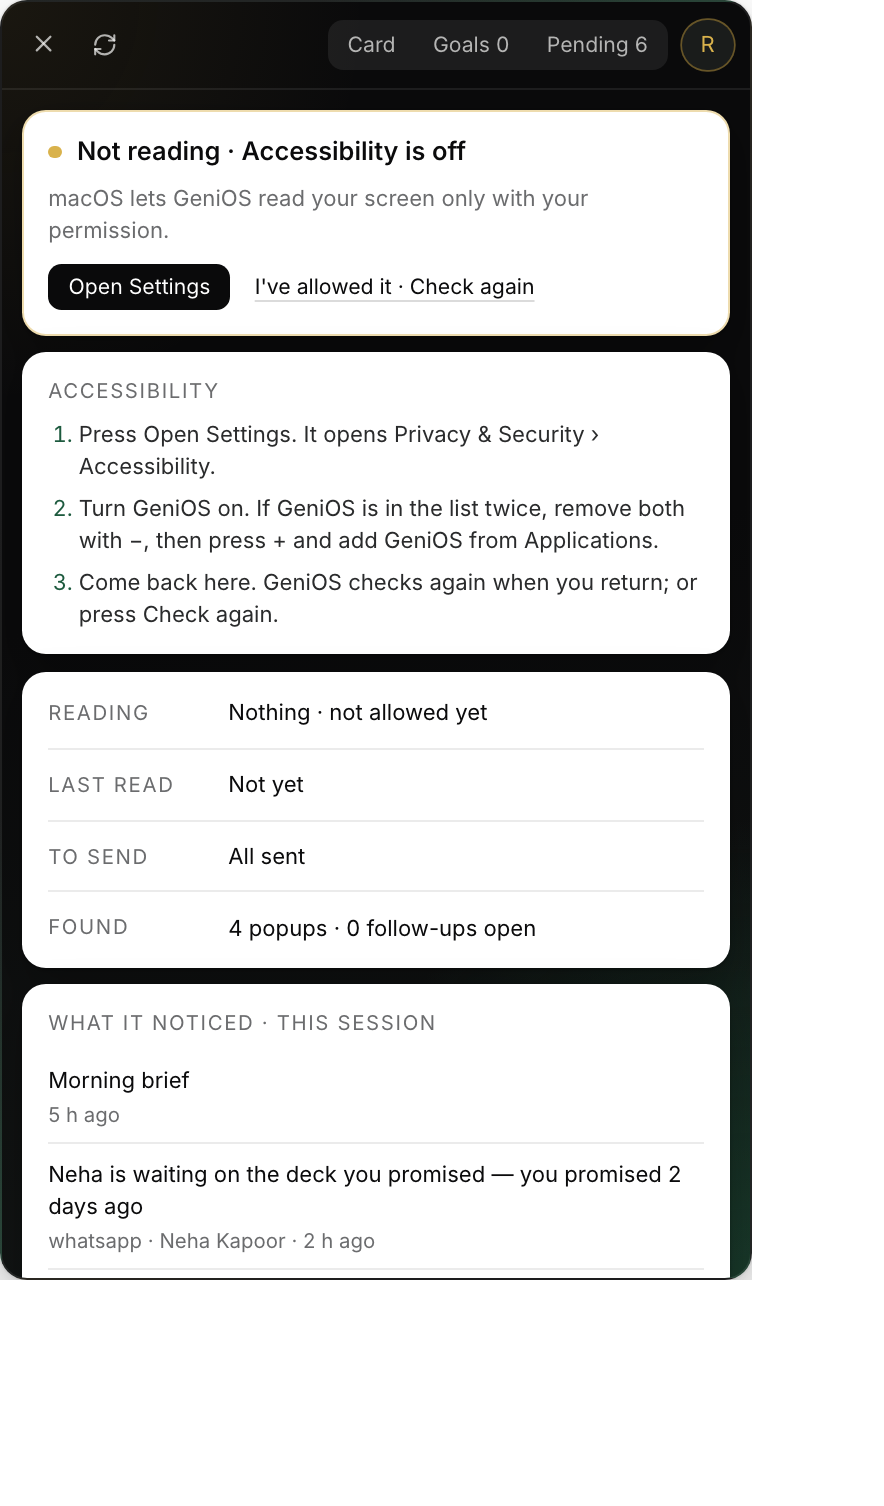
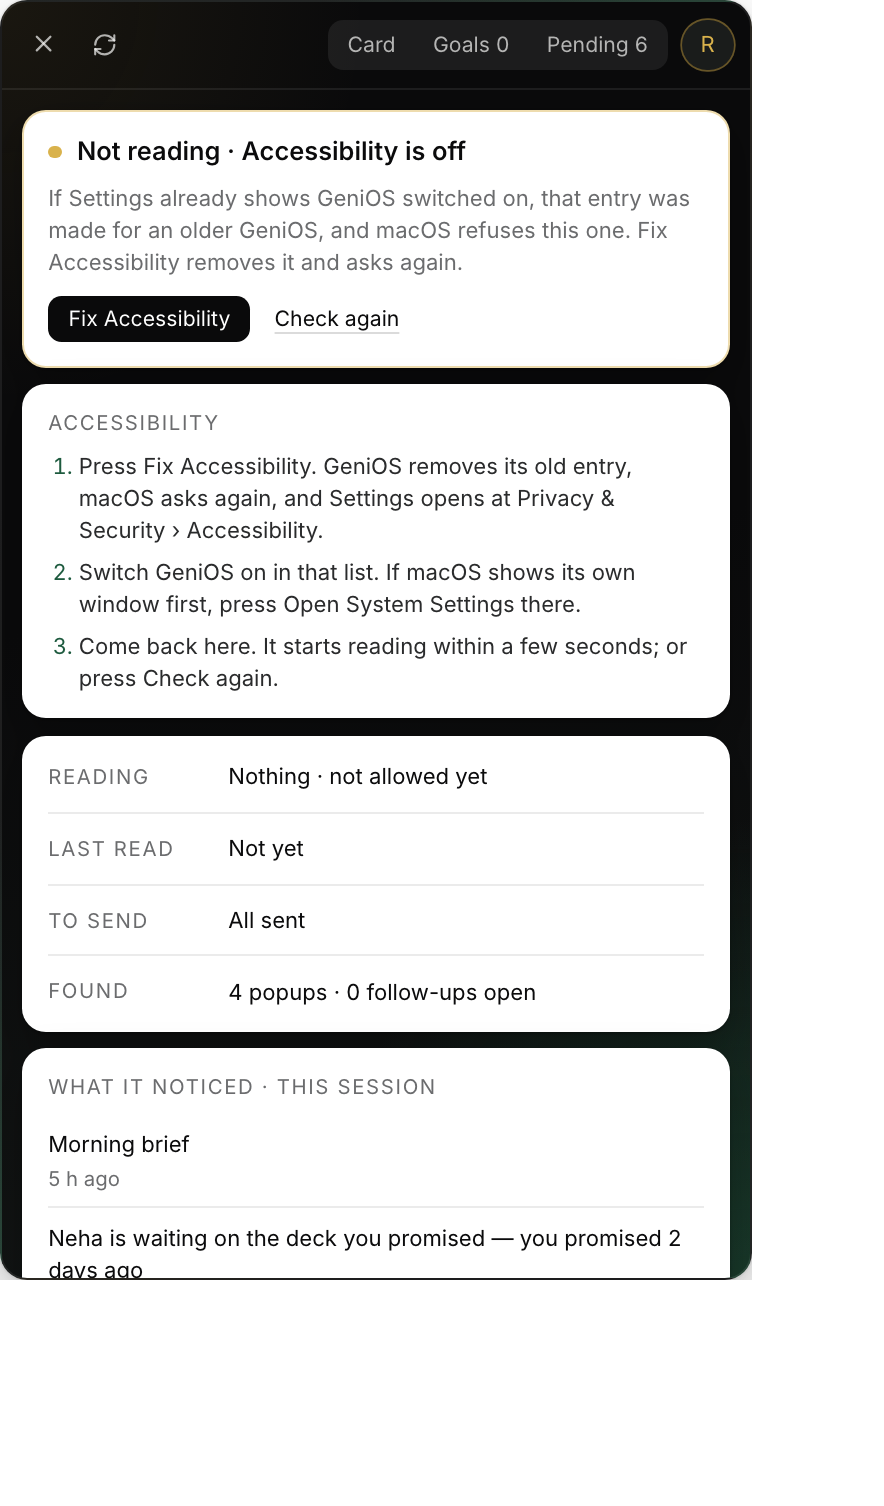
GeniOS-010 07: desktop 0.3.2 — the stale Accessibility entry (tccd cdhash), Fix Accessibility, a Refresh that stops

Changed region(s): [[0.0, 0.1248, 0.8247, 0.5305], [0.0, 0.5618, 0.8247, 0.8738], [0.5803, 0.8114, 0.7636, 0.8426]]

diff --git a/speedrun008/GeniOS-010/07-GENIOS-DESKTOP/02-HOW-IT-WAS-BUILT.md b/speedrun008/GeniOS-010/07-GENIOS-DESKTOP/02-HOW-IT-WAS-BUILT.md
@@ -587,3 +587,54 @@ Screens: `screens/23-app-screen-line.png`, `24-app-screen-view.png`, `25-app-scr
 4. Open it. If macOS stops it, right-click it → Open.
 5. Go to System Settings → Privacy & Security → Accessibility. Remove every GeniOS entry with −. Press +, add `/Applications/GeniOS.app`, and switch it on. Every new build is a new app to macOS, until the app is signed with an Apple Developer account.
 6. Come back to GeniOS. The line under the header should turn green: "Reading your screen · …". If it does not, open it and press "I've allowed it · Check again".
+
+## 13 · 0.3.2: Fix Accessibility, and a Refresh that stops
+
+**Rohit, 22 Oct, 23:24, on 0.3.1:**
+- Refresh kept spinning for 2–3 minutes.
+- "Not reading · Accessibility is off", although GeniOS was switched on in Settings. Switching it off and on, and pressing Check again, changed nothing.
+
+### What was found: macOS's own log (`log show --process tccd`)
+
+When the reader asked for Accessibility:
+- macOS attributed the request to GeniOS correctly (`responsible = ai.genios.desktop, /Applications/GeniOS.app`).
+- It then compared the app with the code hash its Accessibility entry holds: `cdhash H"85a8e081…"`. The running 0.3.1 is `dc5c9727…`, so the result was `-67050`, and macOS answered **Denied**.
+- The entry in Settings belonged to an **older build**. Every build here is ad-hoc signed, so every build has a new hash. Switching the entry off and on keeps the hash it holds; only removing the entry clears it.
+- `tccutil reset Accessibility ai.genios.desktop` (no admin needed) removed **five** such entries, one for each older copy. I ran it on 22 Oct at 23:40, so the old entries are gone.
+
+**Refresh** waited for the whole card reload: the queue, then every card's body, four at a time. Each press, the 45-second timer and every focus started another reload on top of the ones still running, and brain requests had no time limit.
+
+### What changed
+
+| Where | Change |
+|---|---|
+| Rust | New command `capture_fix_accessibility`, in four steps: `tccutil reset Accessibility <bundle id>`; `genios-ax trust --prompt`, so macOS asks again and makes a fresh entry for this build; open Privacy & Security › Accessibility; start a fresh reader. |
+| Screen view (Accessibility off) | The main button is now **Fix Accessibility**, with Check again as the second. The line under the title says why an entry that shows as on can still fail. The steps are: 1) press Fix Accessibility, 2) switch GeniOS on in the list, 3) come back here. |
+| Line under the header | "Not reading your screen · fix Accessibility" |
+| Refresh | The spinner stops after **3 s** at most: "Refreshed · 11:42 pm · cards are still coming in" when the brain is slower. **One card load at a time**: a press, the timer and focus share the load that is already running. Every brain request gives up after **20 s**. |
+
+### How it was checked
+
+- **Rust:** `cargo test --lib -- lane moments capture` gives 201 passed.
+- **Render checks:** 35, all passing. The new ones:
+  - Fix Accessibility calls `capture_fix_accessibility`, then the view reads "Reading your screen";
+  - with a brain that takes 12 s, Refresh stops at 3.4 s and says the cards are still coming in;
+  - three presses while it loads make **1** card-list request, not 3.
+- **Mutations:** two, both caught: a spinner that waits for the cards; the one-load-at-a-time guard removed.
+- **macOS:** `tccutil reset` exits 0 without admin on this Mac.
+- **Not exercisable here:** the real macOS prompt and switch. Rohit's next install exercises them.
+
+### Where it is, and how to install it
+
+| What | Where |
+|---|---|
+| The DMG | `~/Downloads/GeniOS_0.3.2_aarch64.dmg` (22 MB; `hdiutil verify` reports it VALID; version 0.3.2) |
+| The code | dashboard branch `rohit/desktop-ux`, commit `fe150a4`, pushed, not merged |
+
+1. Quit GeniOS. Drag the new GeniOS from the DMG into Applications, and replace the old one.
+2. Open GeniOS. Tap the gold line under the header, then press **Fix Accessibility**.
+3. If macOS shows "GeniOS would like to control this computer", press **Open System Settings**.
+4. In the list, switch **GeniOS** on.
+5. Come back to GeniOS. Within a few seconds the line turns green: "Reading your screen · …".
+
+Every future build needs step 2 once. That stops only when the app is signed with a fixed identity: an Apple Developer ID, or a local signing certificate.
